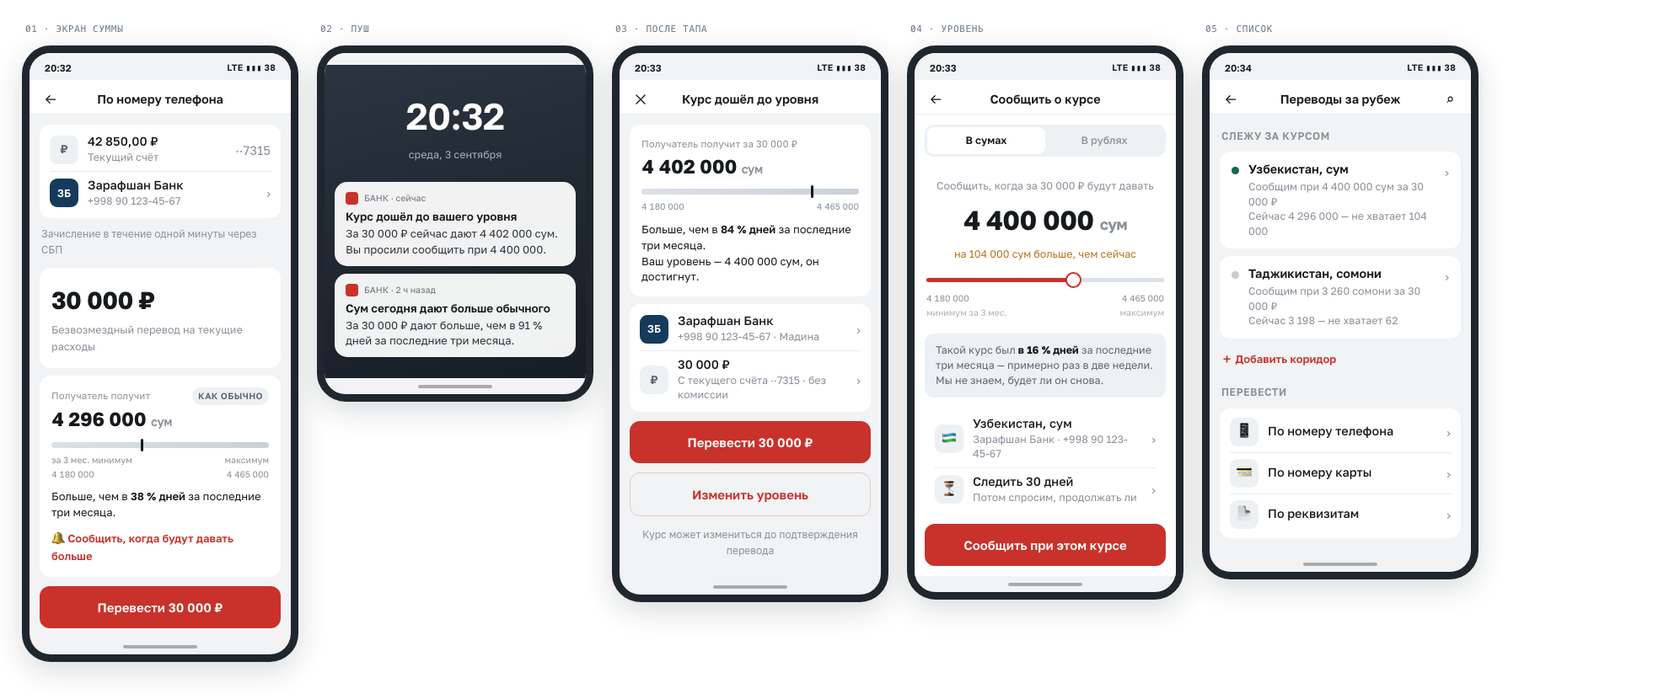
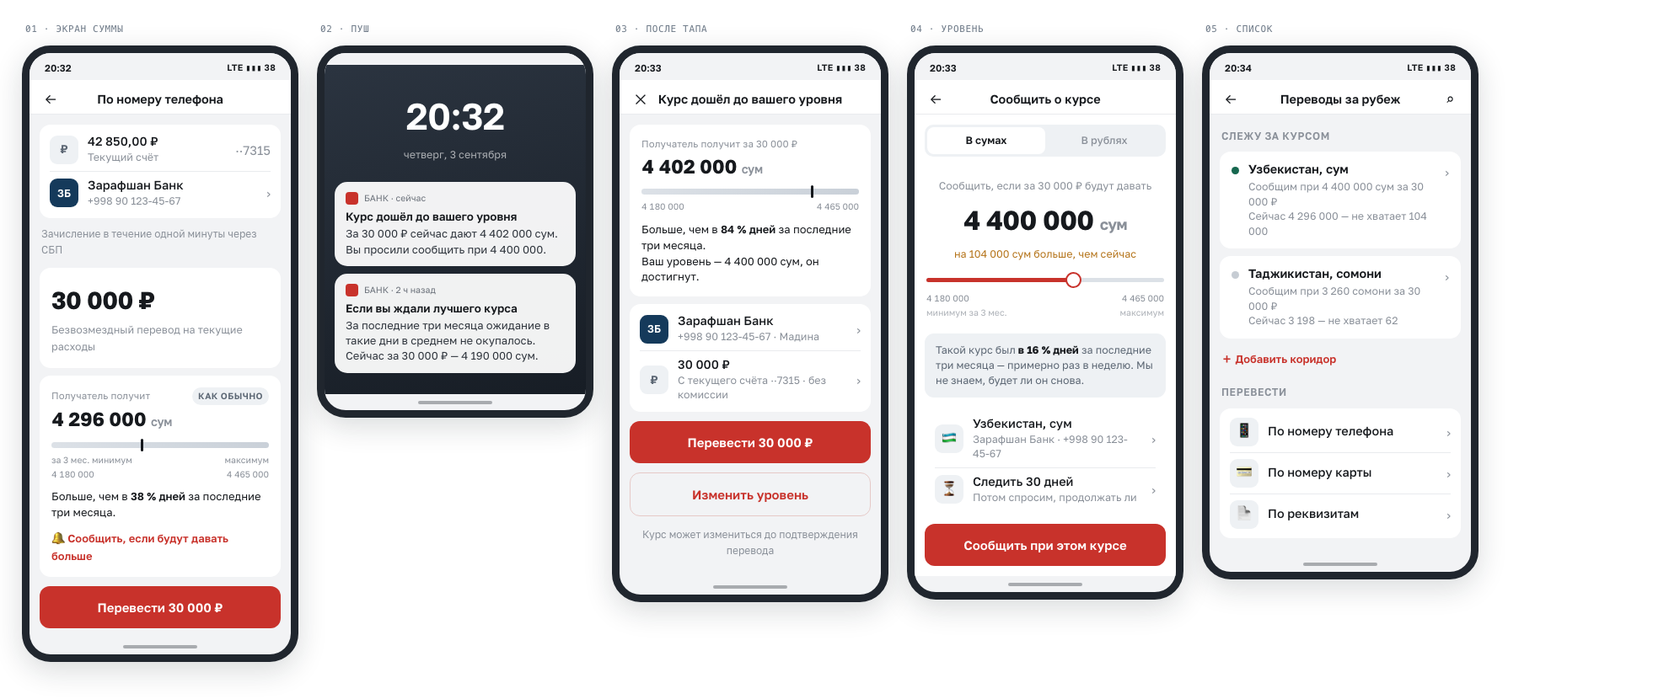
Правки по ревью: направление сигнала, доли состояний, единицы, даты
Ревью нашло блокер, бивший в главный вывод комплекта.

Пуш 2 на макете описывал состояние, противоположное тому, в котором
срабатывает правило. pct_range_90 >= 95 срабатывает на 99-м процентиле
диапазона — когда валюта получателя ДОРОГА и клиент получает меньше
сумов, — а текст говорил «сум сегодня дают больше обычного». Комплект
при этом в восьми местах пишет, что допустимого текста для этого
состояния не существует. Пуш переведён в рамку «перестань ждать»:
факт о прошлом, направления не обещает, помечен как не прошедший
комплаенс. Частота исправлена с «0,6-0,8» на 0,60 и названо, что это
ниже обязательной полосы 1-2.

Доли состояний светофора: были 10/66/10 = 86 %. Границы бакета
записаны как доли дней — ровно та подмена положения в диапазоне
процентилем, которую тот же документ объясняет двумя абзацами ниже.
Верно 17,7/65,6/16,7, округлено до 18/66/17 как в docs/02.

Единица: «143,2 ₽ за 10 000 сум» — это сумов за рубль. В рублях за
10 000 сум 69,8. Ошибка стояла в абзаце, обосновывающем главное
дизайнерское решение «показывать сумму, а не курс».

Дата на макете: 3 сентября 2026 — четверг, а не среда. Пин состояния 1
сдвинут с 88 % на 95 % по своим же числам.

«Когда» вместо «если» в трёх клиентских строках — класс из
собственного стоп-листа. «16 % дней — раз в две недели» → раз в
неделю. Заголовок посадочной приведён к дословному совпадению с пушем.
«Одно касание» снято: шагов минимум три.

В текстах пушей: заголовки A1 и C4 «Курс выше обычного» противоречили
[…]

diff --git a/design/interfeys.html b/design/interfeys.html
@@ -215,9 +215,9 @@ footer{margin-top:60px;padding-top:24px;border-top:2px solid var(--ink);font-siz
     <table>
       <thead><tr><th>Состояние курса</th><th>Доля дней</th><th>Достижимая выгода</th><th>95 % ДИ</th><th>Что можно сказать</th></tr></thead>
       <tbody>
-        <tr><td>Сум дают больше обычного</td><td>10 %</td><td class="num">−1 бп</td><td>[−26; +24]</td><td>только факт</td></tr>
+        <tr><td>Сум дают больше обычного</td><td>18 %</td><td class="num">−1 бп</td><td>[−26; +24]</td><td>только факт</td></tr>
         <tr><td>Как обычно</td><td>66 %</td><td class="neg">−7 бп</td><td>[−17; +4]</td><td>только факт</td></tr>
-        <tr class="hl"><td>Сум дают меньше обычного</td><td>10 %</td><td class="pos">+48 бп</td><td>[+22; +75]</td><td>факт + одна строка про прошлое</td></tr>
+        <tr class="hl"><td>Сум дают меньше обычного</td><td>17 %</td><td class="pos">+48 бп</td><td>[+22; +75]</td><td>факт + одна строка про прошлое</td></tr>
       </tbody>
     </table>
   </div>
@@ -229,12 +229,12 @@ footer{margin-top:60px;padding-top:24px;border-top:2px solid var(--ink);font-siz
 
   <div class="states">
     <div class="state">
-      <div class="state-hd"><div class="n">Состояние 1 · 10 % дней</div><div class="v">Больше обычного</div></div>
+      <div class="state-hd"><div class="n">Состояние 1 · 18 % дней</div><div class="v">Больше обычного</div></div>
       <div class="state-in">
         <div class="mini">
           <div class="fxw-top"><div class="fxw-lab">Получатель получит</div><div class="fxw-state">Больше обычного</div></div>
           <div class="fxw-big">4 452 000 <small>сум</small></div>
-          <div class="track"><div class="track-bar"><div class="track-pin" style="left:88%"></div></div>
+          <div class="track"><div class="track-bar"><div class="track-pin" style="left:95%"></div></div>
             <div class="track-ends"><span>4 180 000</span><span>4 465 000</span></div></div>
           <div class="fxw-fact">Больше, чем в <b>91 % дней</b> за последние три месяца.</div>
         </div>
@@ -255,7 +255,7 @@ footer{margin-top:60px;padding-top:24px;border-top:2px solid var(--ink);font-siz
       <div class="state-ft">Нейтрально и честно. Две трети дней попадают сюда — молчание тоже продуктовое решение.</div>
     </div>
     <div class="state">
-      <div class="state-hd"><div class="n">Состояние 3 · 10 % дней</div><div class="v">Меньше обычного</div></div>
+      <div class="state-hd"><div class="n">Состояние 3 · 17 % дней</div><div class="v">Меньше обычного</div></div>
       <div class="state-in">
         <div class="mini warn">
           <div class="fxw-top"><div class="fxw-lab">Получатель получит</div><div class="fxw-state">Меньше обычного</div></div>
@@ -303,7 +303,7 @@ footer{margin-top:60px;padding-top:24px;border-top:2px solid var(--ink);font-siz
           <div class="track"><div class="track-bar"><div class="track-pin" style="left:41%"></div></div>
             <div class="track-ends"><span>за 3 мес. минимум<br>4 180 000</span><span style="text-align:right">максимум<br>4 465 000</span></div></div>
           <div class="fxw-fact">Больше, чем в <b>38 % дней</b> за последние три месяца.</div>
-          <div class="fxw-link">🔔 Сообщить, когда будут давать больше</div>
+          <div class="fxw-link">🔔 Сообщить, если будут давать больше</div>
         </div>
 
         <div class="cta">Перевести 30 000 ₽</div>
@@ -312,7 +312,7 @@ footer{margin-top:60px;padding-top:24px;border-top:2px solid var(--ink);font-siz
     </div>
 
     <div class="notes">
-      <div class="note"><h4>Величина в сумах, а не в курсе<span class="tag t-num">решение</span></h4><p>«143,2 ₽ за 10 000 сум» клиенту ничего не говорит. «Получатель получит 4 296 000 сум» — говорит, и это та же цифра, которую он назовёт семье по телефону.</p></div>
+      <div class="note"><h4>Величина в сумах, а не в курсе<span class="tag t-num">решение</span></h4><p>«69,8 ₽ за 10 000 сум» клиенту ничего не говорит. «Получатель получит 4 296 000 сум» — говорит, и это та же цифра, которую он назовёт семье по телефону.</p></div>
       <div class="note"><h4>Виджет ниже суммы, а не выше<span class="tag t-num">решение</span></h4><p>Пока сумма не введена, показывать нечего: вся ценность в переводе бп в сумы. Виджет появляется вместе с первой введённой цифрой.</p></div>
       <div class="note"><h4>Полоска без цветовой заливки<span class="tag t-no">чего не делаем</span></h4><p>Градиент «красное → зелёное» на шкале означал бы, что один конец хороший. По нашим данным это неправда для двух состояний из трёх.</p></div>
       <div class="note"><h4>Кнопка перевода не меняется<span class="tag t-no">чего не делаем</span></h4><p>Никакого «Перевести сейчас — выгодный курс!». Индикатор информирует уже сформированное намерение, а не подталкивает.</p></div>
@@ -328,7 +328,7 @@ footer{margin-top:60px;padding-top:24px;border-top:2px solid var(--ink);font-siz
   <div class="pair rev">
     <div class="notes">
       <div class="note"><h4>Пуш 1: уровень, который задал клиент<span class="tag t-ok">основной</span></h4><p>Прогноза не требует вовсе — это факт наступления события, которое клиент сам назначил. Поэтому он и должен быть основным типом: его текст не может нарушить рамку, потому что в нём нет утверждения ни о чём, кроме настоящего.</p></div>
-      <div class="note"><h4>Пуш 2: сигнал модели<span class="tag t-num">по заданию</span></h4><p>Формулировка ровно та, что разрешает кейс: доля дней, которые сегодняшний курс побивает. Ни слова о будущем. Частота — 0,6–0,8 на коридор в неделю.</p></div>
+      <div class="note"><h4>Пуш 2: сигнал модели<span class="tag t-no">не проверен комплаенсом</span></h4><p>Правило срабатывает на 99-м процентиле диапазона — когда валюта получателя <b>дорога</b>, и клиент получает меньше сумов. Разрешённая кейсом формулировка «выгоднее, чем в N % дней» там превращается в «хуже, чем в 99 % дней» и перевода не мотивирует, а единственный мотивирующий текст — обещание будущего — запрещён. Рамка «перестань ждать» — единственный найденный кандидат: это факт о прошлом, направления он не обещает. Частота правила — 0,60 на коридор в неделю.</p></div>
       <div class="note"><h4>Чего в пушах нет<span class="tag t-no">запрещено</span></h4><p>«Успейте», «курс вырастет», «лучший момент», «пока не подорожало». Любой намёк на будущее — то же нарушение, что и прямое обещание.</p></div>
       <div class="note"><h4>Сумма в пуше — та, которую клиент переводит обычно<span class="tag t-num">решение</span></h4><p>Абстрактный курс в пуше не читается. Берём медианный перевод клиента по этому коридору и показываем результат в сумах.</p></div>
     </div>
@@ -337,7 +337,7 @@ footer{margin-top:60px;padding-top:24px;border-top:2px solid var(--ink);font-siz
       <div class="pstat"><span style="opacity:0"></span><span class="rt" style="opacity:0"></span></div>
       <div class="lock">
         <div class="lock-time">20:32</div>
-        <div class="lock-date">среда, 3 сентября</div>
+        <div class="lock-date">четверг, 3 сентября</div>
         <div class="push">
           <div class="push-hd"><span class="push-ic"></span><span>БАНК · сейчас</span></div>
           <div class="push-t">Курс дошёл до вашего уровня</div>
@@ -345,8 +345,8 @@ footer{margin-top:60px;padding-top:24px;border-top:2px solid var(--ink);font-siz
         </div>
         <div class="push">
           <div class="push-hd"><span class="push-ic"></span><span>БАНК · 2 ч назад</span></div>
-          <div class="push-t">Сум сегодня дают больше обычного</div>
-          <div class="push-b">За 30 000 ₽ дают больше, чем в 91 % дней за последние три месяца.</div>
+          <div class="push-t">Если вы ждали лучшего курса</div>
+          <div class="push-b">За последние три месяца ожидание в такие дни в среднем не окупалось. Сейчас за 30 000 ₽ — 4 190 000 сум.</div>
         </div>
       </div>
       <div class="pbar"></div>
@@ -354,12 +354,12 @@ footer{margin-top:60px;padding-top:24px;border-top:2px solid var(--ink);font-siz
   </div>
 
   <h3>Что открывается после тапа</h3>
-  <p>Не главный экран и не общий список переводов. Тап открывает <strong>предзаполненный перевод по тому коридору, о котором был пуш</strong>, с раскрытым виджетом и историей за три месяца. Одно касание до подтверждения.</p>
+  <p>Не главный экран и не общий список переводов. Тап открывает <strong>предзаполненный перевод по тому коридору, о котором был пуш</strong>, с раскрытым виджетом и историей за три месяца. Получатель и сумма уже подставлены.</p>
 
   <div class="pair">
     <div class="phone">
       <div class="pstat"><span>20:33</span><span class="rt">LTE ▮▮▮ 38</span></div>
-      <div class="pnav"><span class="ic">✕</span><span class="ttl">Курс дошёл до уровня</span><span class="ic"></span></div>
+      <div class="pnav"><span class="ic">✕</span><span class="ttl">Курс дошёл до вашего уровня</span><span class="ic"></span></div>
       <div class="pbody">
         <div class="fxw">
           <div class="fxw-top"><div class="fxw-lab">Получатель получит за 30 000 ₽</div></div>
@@ -403,7 +403,7 @@ footer{margin-top:60px;padding-top:24px;border-top:2px solid var(--ink);font-siz
         <div class="seg"><span class="on">В сумах</span><span>В рублях</span></div>
 
         <div style="text-align:center;padding:14px 0 4px">
-          <div style="font-size:12.5px;color:var(--app-grey)">Сообщить, когда за 30 000 ₽ будут давать</div>
+          <div style="font-size:12.5px;color:var(--app-grey)">Сообщить, если за 30 000 ₽ будут давать</div>
           <div style="font-size:32px;font-weight:700;letter-spacing:-.02em;margin-top:5px">4 400 000 <span style="font-size:18px;color:var(--app-grey)">сум</span></div>
           <div style="font-size:12.5px;color:var(--app-warn);margin-top:5px">на 104 000 сум больше, чем сейчас</div>
         </div>
@@ -413,7 +413,7 @@ footer{margin-top:60px;padding-top:24px;border-top:2px solid var(--ink);font-siz
         </div>
 
         <div style="background:var(--app-neutral-bg);border-radius:11px;padding:11px 13px;font-size:12.5px;line-height:1.45;color:var(--app-neutral);margin-top:16px">
-          Такой курс был <b style="color:var(--app-ink)">в 16 % дней</b> за последние три месяца — примерно раз в две недели. Мы не знаем, будет ли он снова.
+          Такой курс был <b style="color:var(--app-ink)">в 16 % дней</b> за последние три месяца — примерно раз в неделю. Мы не знаем, будет ли он снова.
         </div>
 
         <div class="acard" style="margin-top:11px;padding:4px 12px">
@@ -429,7 +429,7 @@ footer{margin-top:60px;padding-top:24px;border-top:2px solid var(--ink);font-siz
     <div class="notes">
       <div class="note"><h4>Порог в сумах, а не в курсе<span class="tag t-num">решение</span></h4><p>Клиент мыслит суммой, которую получит семья. Переключатель «в рублях» оставлен для тех, кто считает курсом, но по умолчанию не он.</p></div>
       <div class="note"><h4>Ползунок ограничен реальным диапазоном<span class="tag t-num">решение</span></h4><p>Границы — минимум и максимум квартала. Позволить выставить уровень, которого никогда не было, значит завести оповещение, которое не сработает никогда.</p></div>
-      <div class="note"><h4>Частота уровня названа заранее<span class="tag t-ok">ключевое</span></h4><p><b>«Такой курс был в 16 % дней — примерно раз в две недели»</b>. Это калибровка ожидания, снова фактом о прошлом. Клиент сам решает, реалистичен ли его уровень.</p></div>
+      <div class="note"><h4>Частота уровня названа заранее<span class="tag t-ok">ключевое</span></h4><p><b>«Такой курс был в 16 % дней — примерно раз в неделю»</b>. Это калибровка ожидания, снова фактом о прошлом. Клиент сам решает, реалистичен ли его уровень.</p></div>
       <div class="note"><h4>«Мы не знаем, будет ли он снова»<span class="tag t-ok">рамка</span></h4><p>Одна строка, которая честно закрывает рамку кейса и снимает с продукта обещание. Её стоит защищать: она превращает ограничение в доверие.</p></div>
       <div class="note"><h4>Срок жизни оповещения<span class="tag t-num">решение</span></h4><p>30 дней с переспросом. Бессрочное оповещение через полгода станет спамом по поводу, о котором клиент забыл.</p></div>
     </div>
@@ -493,7 +493,7 @@ footer{margin-top:60px;padding-top:24px;border-top:2px solid var(--ink);font-siz
       <tbody>
         <tr><td>Индикатор на экране суммы</td><td>доверие, удовлетворённость</td><td class="pos">нет</td><td>доля отказов на экране суммы</td></tr>
         <tr><td>Оповещение об уровне</td><td>удержание отложенного намерения</td><td class="pos">нет</td><td>возвраты в приложение, конверсия по пушу</td></tr>
-        <tr class="hl"><td>Сигнал триггерной модели</td><td>тайминг</td><td class="pos">нет</td><td>инкрементальная конверсия против холдаута</td></tr>
+        <tr class="hl"><td>Сигнал триггерной модели</td><td>остановка ожидания</td><td class="pos">нет</td><td>инкрементальная конверсия против холдаута</td></tr>
         <tr><td>Прогноз направления курса</td><td>—</td><td class="neg">да</td><td class="neg">в продукт не берём</td></tr>
       </tbody>
     </table>

diff --git a/design/pushi-100-variantov.md b/design/pushi-100-variantov.md
@@ -7,7 +7,7 @@
 
 ## Короткий вывод
 
-В пилот идёт **19 текстов из ста**. Не потому, что остальные плохи: 22 варианта
+В пилот идёт **19 текстов из ста**. Не потому, что остальные плохи: 19 вариантов
 оказались перестановкой слов вокруг одной конструкции, 18 не содержат в теле ни
 одной цифры, а ещё часть снята за конкретные дефекты. Одна группа A схлопывается
 с пятнадцати вариантов до шести.
@@ -154,8 +154,10 @@ E6 и E10 не называют праздник, а коридоры у них 
 слова «за последние три месяца»; «завтра» не встречается рядом со словом «курс»
 (рядом с датой праздника — можно).
 
-**Праздник — не курсовое утверждение.** Навруз измеримого эффекта на курс не даёт:
-4 года из 8, медиана −17 бп, крупные движения в обе стороны. У Курбан-байрама
+**Праздник — не курсовое утверждение.** Эффекта Навруза мы не нашли, и найти его
+нечем: дата стоит на месте 21 марта, поэтому «эффект Навруза» неотделим от
+«эффекта марта». Валюта дорожала перед ним 4 года из 8, медиана −17 бп, крупные
+движения в обе стороны. У Курбан-байрама
 валюта дорожала перед праздником 6 лет из 8 (медиана −137 бп), но знак
 развернулся в последние годы: 2024 +161 бп, 2025 −25 бп, 2026 +283 бп. Поэтому
 праздничный пуш напоминает о **намерении**, а не обещает курс. «К Наврузу
@@ -167,8 +169,8 @@ E6 и E10 не называют праздник, а коридоры у них 
 только Новый год и 1 сентября.**
 
 **Длина.** Развёрнутое уведомление даёт 40 знаков заголовка и 120 тела, и по
-этому лимиту не выходит ни один из ста текстов: максимум 36 знаков заголовка (B8)
-и 87 тела (H1). Но в свёрнутом виде, который человек видит в метро, Android даёт
+этому лимиту не выходит ни один из ста текстов: максимум 36 знаков заголовка (B8 и A14)
+и 88 тела (A1). Но в свёрнутом виде, который человек видит в метро, Android даёт
 около 32 знаков на заголовок и 45 на тело, и режет он по смыслу: у I1 обрубается
 «примерно в половине дней квартала», то есть весь смысл честного текста.
 **Считать надо по свёрнутому.**
@@ -200,7 +202,7 @@ E6 и E10 не называют праздник, а коридоры у них 
 
 | ID | Заголовок | Текст |
 |---|---|---|
-| A1 | Курс выше обычного | {получит} {валюта} за {сумма}. Больше, чем в {процент}% дней за три месяца |
+| A1 | Сегодня дают больше обычного | {получит} {валюта} за {сумма}. Больше, чем в {процент} % дней за три месяца |
 | A4 | Такой курс был редко | {получит} {валюта} за {сумма} — так было {редкость} дней из 100 за три месяца |
 | A5 | Сегодня {получит} {валюта} | Столько за {сумма} давали лишь {редкость} дней из 100 за три месяца |
 
@@ -209,8 +211,8 @@ E6 и E10 не называют праздник, а коридоры у них 
 
 | ID | Заголовок | Текст |
 |---|---|---|
-| C3 | Деньги на счёте | За {сумма} сегодня дают {получит} {валюта} |
-| C4 | Курс выше обычного | За {сумма} — {получит} {валюта}. Больше, чем в {процент}% дней за три месяца |
+| C3 | Можно перевести сегодня | За {сумма} сегодня дают {получит} {валюта} |
+| C4 | Деньги на счёте | За {сумма} — {получит} {валюта}. Больше, чем в {процент} % дней за три месяца |
 
 **Школа (3).** В узбекском коридоре дата не называется.
 
@@ -233,7 +235,7 @@ E6 и E10 не называют праздник, а коридоры у них 
 | ID | Заголовок | Текст | Коридор |
 |---|---|---|---|
 | D4 | Наурыз құтты болсын! | Пусть год будет щедрым на добрые вести | KZT |
-| E9 | Иди Рамазон муборак! | Пусть праздник принесёт радость в ваш дом | TJS |
+| E9 | Рамазон муборак! | Пусть праздник принесёт радость в ваш дом | TJS |
 
 **Онбординг (1)**
 
@@ -251,8 +253,9 @@ E6 и E10 не называют праздник, а коридоры у них 
 
 **Условие на праздничные и сезонные тексты:** отправлять только в неделю, где не
 сработал курсовой сигнал. Наше правило даёт 0,60 срабатывания на коридор в
-неделю, причём 89 % сигналов приходят сериями, а максимальная пауза — 406 дней.
-В пиковую неделю правило выдаёт 6 сигналов при лимите 1–2, и там праздничному
+неделю, причём 89 % промежутков между соседними сигналами короче четырёх публикаций, а
+максимальная пауза — 406 дней. В пиковую неделю правило выдаёт 6 сигналов при
+верхней границе полосы 2, и там праздничному
 тексту места нет; между сериями продукт молчит месяцами, и там он — единственное,
 что удерживает клиента до следующего сигнала.
 
@@ -260,13 +263,18 @@ E6 и E10 не называют праздник, а коридоры у них 
 
 ## 4. Все сто вариантов
 
-Тексты приведены в исходном виде, чтобы был виден материал отбора. Пометки:
-**П** — в пилоте, **✎** — нужна правка из раздела 1, **✗** — снят.
+Тексты приведены **в исходном виде**, чтобы был виден материал отбора. Пометки:
+**П** — вошёл в пилот, **✎** — нужна правка из раздела 1, **✗** — снят.
+
+У всех девятнадцати текстов с пометкой **П** окончательная формулировка —
+в разделе 3, а не здесь: почти каждый из них правился при отборе. Сканировать
+на запрещённые слова надо раздел 3.
 
 ### A. Курсовой факт: процентиль
 
-Правило пилота срабатывает 0,60 раза на коридор в неделю; более широкие варианты
-правила — до 0,90. Окно 18:00–21:00 по времени клиента.
+Правило пилота срабатывает 0,60 раза на коридор в неделю. Более широкие варианты
+дают 0,80 (`pct_range_90 >= 90`) и 1,02 (`>= 85`); в обязательную полосу ТЗ 1–2
+попадает только последний. Окно 18:00–21:00 по времени клиента.
 
 | № | Заголовок | Текст | |
 |---|---|---|---|
@@ -435,16 +443,21 @@ E6 и E10 не называют праздник, а коридоры у них 
 
 ## 5. Что снято и почему
 
-**Дубликаты — 22 варианта.** Тела совпадают побайтово у A6 = C10 = H3,
-C3 = C7, F6 = G3. Группа A схлопывается с 15 до 6: A6, A7, A8, A9, A10, A12,
+**Дубликаты — 19 вариантов.** Тела совпадают побайтово у трёх групп:
+A6 = C10 = H3, C3 = C7, F6 = G3. Из каждой оставлен один — из второй C3,
+поэтому в пилоте он есть, а C7 снят. Группа A схлопывается с 15 до 6: A6, A7, A8, A9, A10, A12,
 A13, A14, A15 — перестановка слов вокруг одной конструкции «заголовок-синоним
 хорошего курса плюс тело с процентилем». D9 ≈ F4 ≈ E6 ≈ G7 — это один шаблон,
 переиспользованный на четырёх поводах, и держать его надо как один.
 
 **Тексты без цифры в теле — 18.** D1, D3, D6, D7, D10, E1, E3, E5, E7, E9, E10,
 F2, F5, F9, G2, G4, G8, I2. В курсовом продукте пуш без числа — баннер, занявший
-слот курсового оповещения. Оправдан ровно один, G4: там факт не про курс, а про
-то, что переводы работают 31 декабря.
+слот курсового оповещения, и по этому признаку снято большинство из них.
+
+Три исключения, и у каждого своя причина. **G4** — единственный, где факт не про
+курс, а про то, что переводы работают 31 декабря. **D4 и E9** взяты в пилот
+именно без цифр: поздравление в день праздника не должно нести ни курса, ни
+тарифа, иначе родное слово оказывается наживкой перед офертой (раздел 1.4).
 
 **Сумма и источник дохода на экране блокировки.** C2, C8, C11, C12 выносят в
 заголовок сумму поступления. Экран блокировки виден соседям, и это отдельно от

diff --git a/submission/12-dizayn-interfeysa.md b/submission/12-dizayn-interfeysa.md
@@ -19,9 +19,9 @@
 
 | Состояние курса | Доля дней | Достижимая выгода | 95 % ДИ | Что можно сказать |
 |---|---:|---:|---|---|
-| Сум дают больше обычного | 10 % | −1 бп | [−26; +24] | только факт |
+| Сум дают больше обычного | 18 % | −1 бп | [−26; +24] | только факт |
 | Как обычно | 66 % | −7 бп | [−17; +4] | только факт |
-| **Сум дают меньше обычного** | 10 % | **+48 бп** | **[+22; +75]** | факт + строка про прошлое |
+| **Сум дают меньше обычного** | 17 % | **+48 бп** | **[+22; +75]** | факт + строка про прошлое |
 
 Источник — `run_product_numbers.py`, блок «светофор», вывод в
 `submission/10-produktovye-chisla.txt`. Границы бакетов 10 и 90 заданы кейсом,
@@ -49,7 +49,7 @@
 Разрешённая кейсом формулировка «выгоднее, чем в 85 % дней» обещает именно
 процентиль. Считать одно, а писать про другое нельзя — поэтому в коде это два
 разных признака, `pct_range_90` и `days_beaten_90`, и тест
-`test_position_in_range_and_percentile_disagree_on_an_outlier` падает на входе,
+`test_position_in_range_and_percentile_disagree_on_an_outlier` показывает вход,
 где они расходятся на 80 пунктов.
 
 ---
@@ -62,7 +62,7 @@
 
 | Решение | Почему так |
 |---|---|
-| Величина в сумах, а не в курсе | «143,2 ₽ за 10 000 сум» клиенту ничего не говорит. «Получатель получит 4 296 000 сум» — говорит, и это та же цифра, которую он назовёт семье |
+| Величина в сумах, а не в курсе | «69,8 ₽ за 10 000 сум» клиенту ничего не говорит. «Получатель получит 4 296 000 сум» — говорит, и это та же цифра, которую он назовёт семье |
 | Виджет ниже суммы, а не выше | Пока сумма не введена, показывать нечего: вся ценность в переводе базисных пунктов в сумы |
 | Шкала без цветовой заливки | Градиент «красное → зелёное» означал бы, что один конец хороший. По нашим данным это неправда для двух состояний из трёх |
 | Кнопка перевода не меняется | Никакого «Перевести сейчас — выгодный курс!». Индикатор информирует уже сформированное намерение, а не подталкивает |
@@ -82,12 +82,24 @@
 > Курс дошёл до вашего уровня. За 30 000 ₽ сейчас дают 4 402 000 сум.
 > Вы просили сообщить при 4 400 000.
 
-**Пуш 2 — сигнал триггерной модели.** Формулировка ровно та, что разрешает кейс:
-доля дней, которые сегодняшний курс побивает. Частота — 0,6–0,8 на коридор в
-неделю.
+**Пуш 2 — сигнал триггерной модели, и он не проверен комплаенсом.** Правило
+`pct_range_90 >= 95` срабатывает на 99-м процентиле квартального диапазона —
+когда валюта получателя **дорога** и клиент получает меньше сумов. Разрешённая
+кейсом формулировка «выгоднее, чем в N % дней» превращается там в «хуже, чем в
+99 % дней» и перевода не мотивирует; единственный мотивирующий текст —
+утверждение о будущем — запрещён. Это тот самый вывод, который комплект называет
+главным: **у оптимума метрики кейса нет допустимого текста**
+(`08-dve-metriki-dve-modeli.md`, раздел 2).
 
-> Сум сегодня дают больше обычного. За 30 000 ₽ дают больше, чем в 91 % дней
-> за последние три месяца.
+Рамка «перестань ждать» — единственный найденный кандидат. Это факт о прошлом, и
+направления он не обещает:
+
+> Если вы ждали лучшего курса. За последние три месяца ожидание в такие дни
+> в среднем не окупалось. Сейчас за 30 000 ₽ — 4 190 000 сум.
+
+Частота правила — 0,60 на коридор в неделю, то есть **ниже обязательной полосы
+1–2**. В полосу попадает только более широкий вариант `pct_range_90 >= 85`
+(1,02 сигнала в неделю, lift 1,26).
 
 **Чего в пушах нет:** «успейте», «курс вырастет», «лучший момент», «пока не
 подорожало». Любой намёк на будущее — то же нарушение, что и прямое обещание.
@@ -95,8 +107,8 @@
 ### Что открывается после тапа
 
 Не главный экран и не общий список переводов, а **предзаполненный перевод по
-тому коридору, о котором был пуш** — с раскрытым виджетом и одним касанием до
-подтверждения.
+тому коридору, о котором был пуш** — с раскрытым виджетом, подставленными
+получателем и суммой.
 
 | Решение | Почему так |
 |---|---|
@@ -118,7 +130,7 @@
 |---|---|
 | Порог в сумах, а не в курсе | Клиент мыслит суммой, которую получит семья. Переключатель «в рублях» есть, но не по умолчанию |
 | Ползунок ограничен реальным диапазоном квартала | Уровень, которого никогда не было, дал бы оповещение, которое не сработает никогда |
-| **Частота уровня названа заранее** | «Такой курс был в 16 % дней — примерно раз в две недели». Калибровка ожидания, снова фактом о прошлом |
+| **Частота уровня названа заранее** | «Такой курс был в 16 % дней — примерно раз в неделю». Калибровка ожидания, снова фактом о прошлом |
 | **«Мы не знаем, будет ли он снова»** | Одна строка, честно закрывающая рамку кейса. Превращает ограничение в доверие |
 | Срок жизни 30 дней с переспросом | Бессрочное оповещение через полгода станет спамом по забытому поводу |
 
@@ -142,15 +154,22 @@
 |---|---|---|---|
 | Индикатор на экране суммы | доверие, удовлетворённость | нет | доля отказов на экране суммы |
 | Оповещение об уровне | удержание отложенного намерения | нет | возвраты в приложение, конверсия по пушу |
-| Сигнал триггерной модели | тайминг | нет | инкрементальная конверсия против холдаута |
+| Сигнал триггерной модели | остановка ожидания | нет | инкрементальная конверсия против холдаута |
 | Прогноз направления курса | — | да | **в продукт не берём** |
 
 ### Три вещи, которые дизайн не решает
 
 **Курс приложения — не курс ЦБ.** Все цифры на макетах считаются по ряду ЦБ, а
 перевод пройдёт по курсу поставщика ликвидности. Пока разрыв не измерен, строка
-«курс может измениться до подтверждения» обязательна на каждом экране, где
-названа сумма в сумах.
+«курс может измениться до подтверждения» обязательна на экране подтверждения —
+там, где сумма становится обязывающей. На остальных экранах сумма справочная, и
+повторять оговорку пять раз значит превратить её в шум, который никто не читает.
+
+**Продуктовые обещания на макетах не проверены.** «Без комиссии», «зачисление в
+течение одной минуты через СБП» и «у переводов нет выходных 31 декабря» взяты как
+правдоподобные, но ни один из них мы не подтверждали по каждому из пяти
+коридоров. До пилота каждое должно быть либо подтверждено, либо снято: реклама
+финансовой услуги, умалчивающая об условиях, — отдельный регуляторный риск.
 
 **Доля клиентов, способных отложить перевод, неизвестна.** Если гибких десять
 процентов, пилот на всей базе покажет ноль из-за разбавления — при полностью

diff --git a/submission/00-opis-komplekta.md b/submission/00-opis-komplekta.md
@@ -43,6 +43,7 @@
 | `10-produktovye-chisla.txt` | сырой вывод всех продуктовых величин: размах, потолок, цена ожидания, разбивка по коридорам, кучность, размер пилота | сырой лог прогона |
 | `11-zapusk-pilot-ogranicheniya.md` | инструкция по запуску, план пилота с расчётом срока набора событий, ограничения и компромиссы отдельным разделом | завершено |
 | `12-dizayn-interfeysa.md` | макеты индикатора, пуша и оповещения об уровне с обоснованием каждого решения | завершено |
+| `../design/pushi-100-variantov.md` | сто вариантов текста пуша, отбор четырьмя разборами, механика подстановок и блэкауты | завершено |
 
 Дополнительно в репозитории: код, данные, 44 автотеста (24 на честность, 14 на корректность признаков и политики, 6 на срез `signals_as_of`), полные логи всех прогонов и четыре документа с продуктовой логикой и методикой (`docs/`).
 
@@ -68,9 +69,9 @@
 |---|---|---|
 | `signals.csv` в финальном формате | не начато: `ml/signals.py::signals_as_of` возвращает список словарей, выгрузки в CSV нет | 05.09 |
 | Правило комбинирования и добор до полосы частоты | не начато. Полоса измеряется (`run_product_numbers.py`), но ни одно правило в неё не попадает — добор нужен именно поэтому | 05.09 |
-| Настоящий процентиль в тексте пуша | признак `days_beaten_90` посчитан, но библиотека текстов на него ещё не опирается | 06.09 |
+| Настоящий процентиль в тексте пуша | библиотека текстов опирается на него (`{процент}`/`{редкость}`), но правило рендера с нижним порогом отправки не написано | 06.09 |
 | Переотбор признаков внутри каждого фолда | сейчас конфигурация фиксируется один раз на данных до 2021 — консервативно, но расходится с продакшн-сценарием | 07.09 |
-| Библиотека текстов уведомлений, рубрикатор комплаенса | не начато | 06.09 |
+| Библиотека текстов уведомлений, рубрикатор комплаенса | сто вариантов и отбор готовы (`design/pushi-100-variantov.md`); не сделано — падежный словарь валют и праздников в коде, проверка приветствий носителем | 06.09 |
 | Прототип экрана «момент изменился» | не начато | 06.09 |
 | Дизайн пилота с холдаутом | описан в продуктовых материалах, не оформлен отдельно | 06.09 |
 | Значимость на клиентской метрике | ни одна политика её не даёт: у лучшей — ценности действия — ДИ [−71; +401] на 53 окнах. Больше данных из ЦБ взять неоткуда, поэтому проверять придётся пилотом | пилот |
